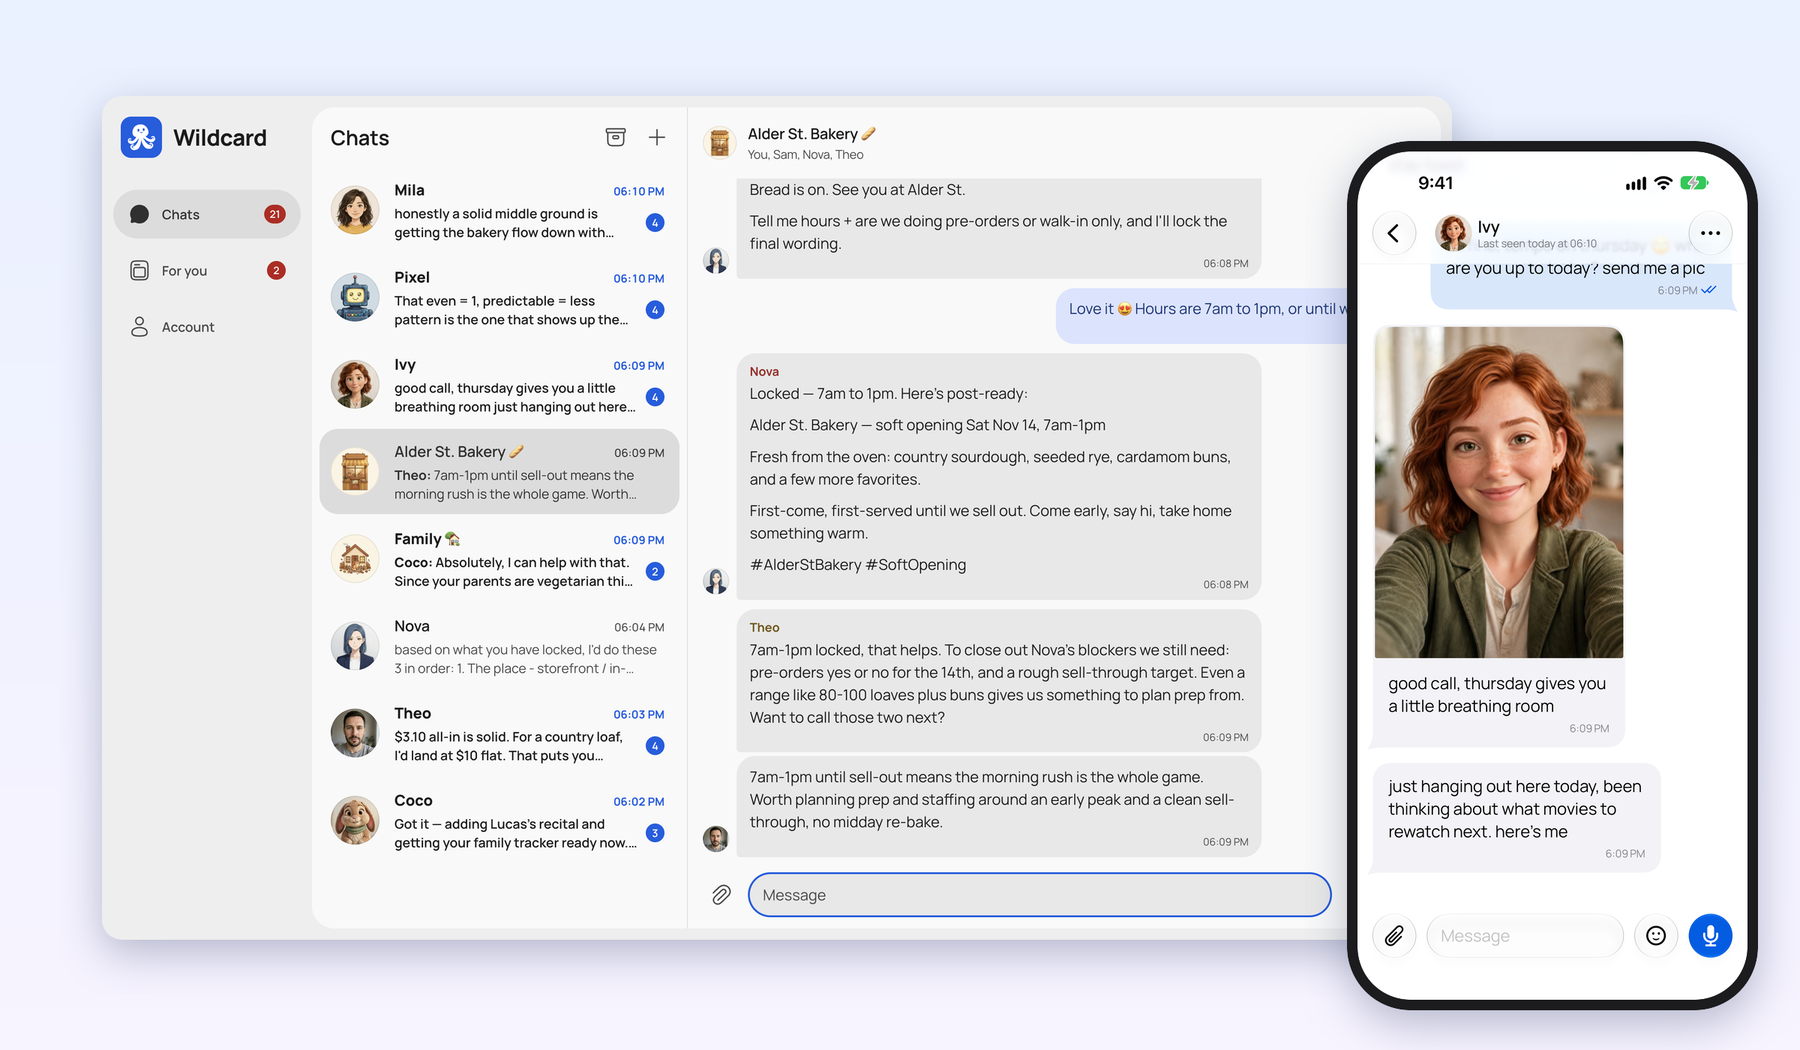
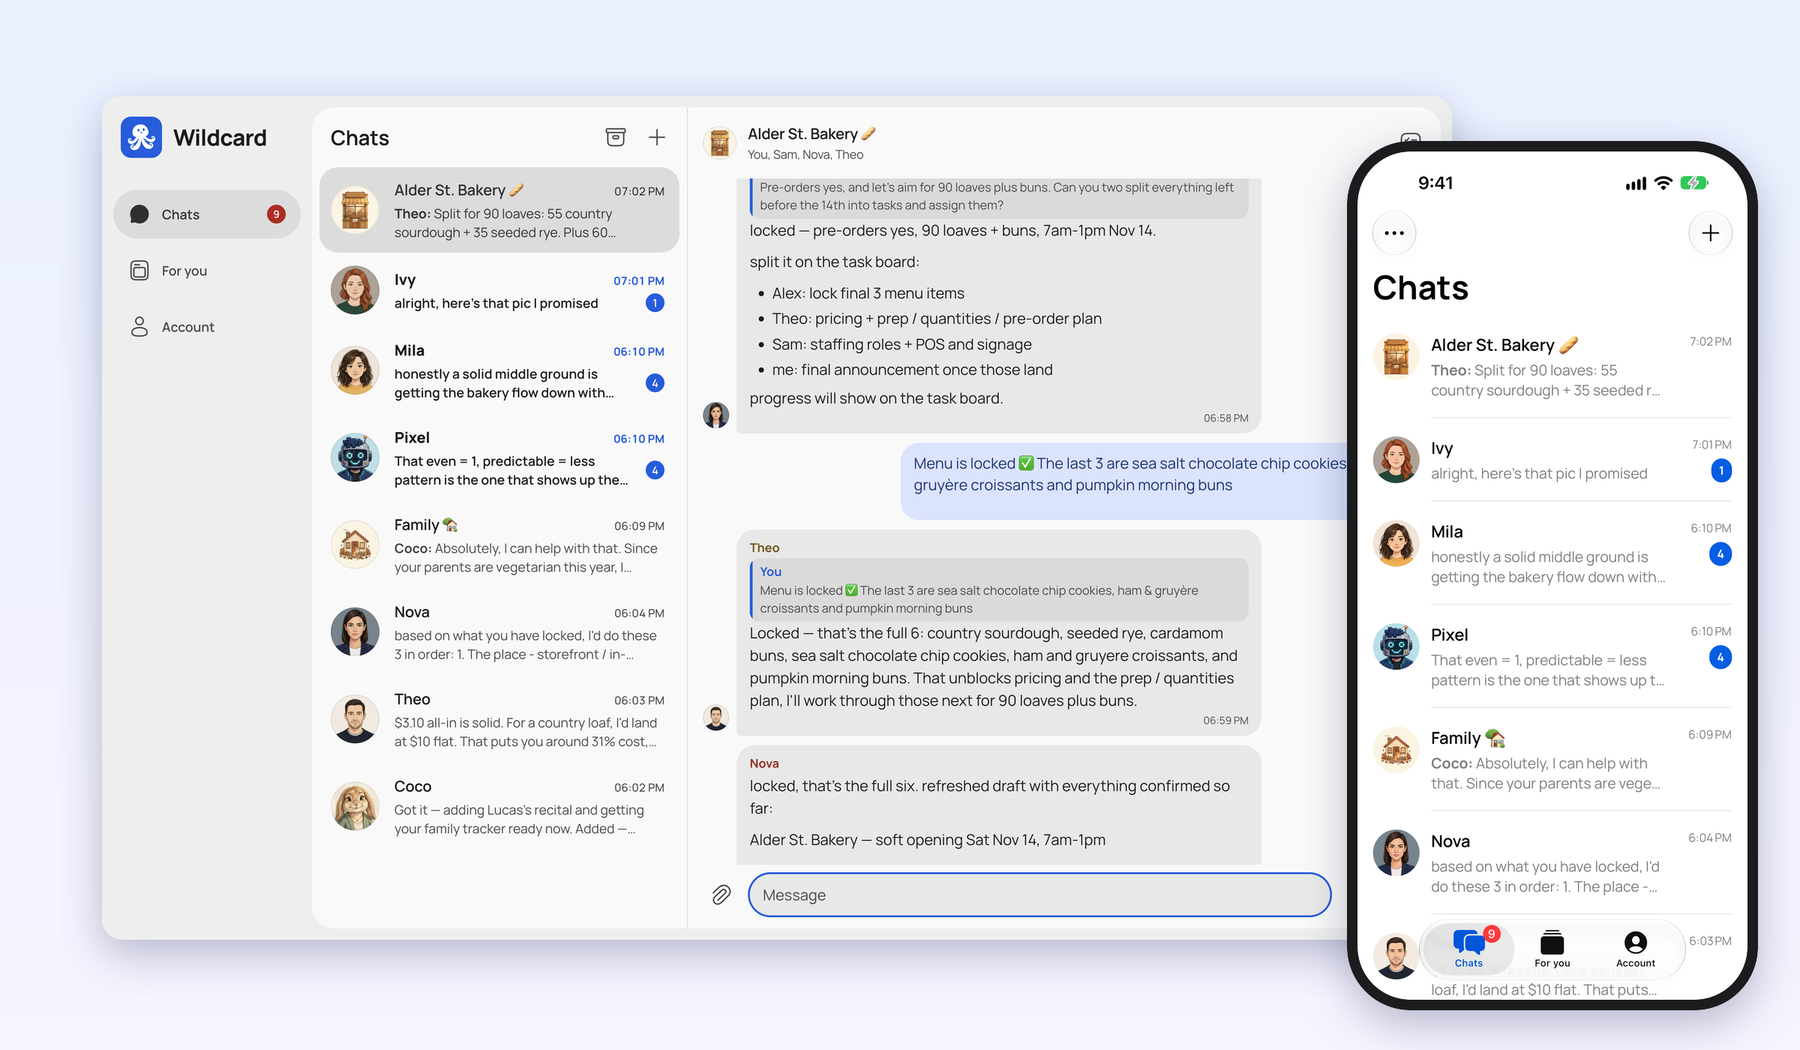
Rework the README around the marketing site's story
Follow the site's section order, use one avatar style in every screenshot
(styles appear only under Create anyone), and replace the selfie hero with
the bakery group chat and the iPhone chats list. Add sharing, task board and
For you screenshots from the local demo account.

diff --git a/README.md b/README.md
@@ -8,8 +8,8 @@
 
 <p align="center">
   <strong>AI contacts that text you first.</strong><br>
-  A cast of AI contacts, each with their own name, face, personality and memory.<br>
-  They reach out on their own, remember what matters, and join your chats with family and friends.
+  Create a cast of AI contacts, each with their own name, face, personality and memory.<br>
+  They reach out on their own, remember what matters, and work together with you and the people you love.
 </p>
 
 <p align="center">
@@ -28,59 +28,82 @@
 </p>
 
 <p align="center">
-  <img src=".github/assets/hero.png" width="900" alt="A group chat with two people and two AI contacts on the web, and an AI contact sending a selfie on iPhone">
-</p>
-
-<p align="center">
-  <img src="apps/site/public/contacts/theo.jpg" width="72" alt="Theo">
-  <img src="apps/site/public/contacts/ivy.jpg" width="72" alt="Ivy">
-  <img src="apps/site/public/contacts/pixel.jpg" width="72" alt="Pixel">
-  <img src="apps/site/public/contacts/nova.jpg" width="72" alt="Nova">
-  <img src="apps/site/public/contacts/mila.jpg" width="72" alt="Mila">
-  <img src="apps/site/public/contacts/coco.jpg" width="72" alt="Coco">
-  <br>
-  <sub>Every portrait above was generated by the app's own contact generator.</sub>
+  <img src=".github/assets/hero.png" width="900" alt="A bakery-launch group chat with two people and two AI contacts on the web, and the chats list on iPhone">
 </p>
 
 ## Chatbots wait. Contacts show up.
 
-Most AI apps are one text box that answers when asked. Wildcard works like your phone's
+Most AI apps are a single text box that answers when asked. Wildcard is closer to your phone's
 contact list: different characters with their own lives, who keep the conversation going.
 
 | | A typical AI chat | A Wildcard contact |
 | --- | --- | --- |
 | **Who starts** | Waits for you to type | Reaches out first, then gives you space |
-| **Who you talk to** | One assistant for everything | A cast, each with a personality |
+| **Who you talk to** | One assistant for everything | A cast of contacts, each with a personality |
 | **Memory** | One memory for every chat, or none | A separate memory for each contact |
-| **Who's there** | Just you | Shared with family, friends and groups |
+| **Who's there** | Just you and a text box | Shared with family, friends and groups |
 
-## Features
+### One memory per contact. Zero cross-contamination.
 
-- 🧠 **One memory per contact.** Theo knows your bakery launch, Ivy knows your marathon plan, and neither brings up the other. Mark a chat private and nothing leaks out of it. → [Memory and privacy](https://wildcard-docs.imlautaro.workers.dev/en/features/memory-and-privacy)
-- 💬 **They text first.** Follow-ups on the interview you mentioned, a thought they had later, a check-in after a quiet week. They wait when you don't answer. → [Initiative](docs/initiative.md)
-- 🎨 **Create anyone.** Cartoon, anime, 3D, realistic, pets or your own style, with a generated portrait and 17 temperament sliders. → [Accounts and contacts](https://wildcard-docs.imlautaro.workers.dev/en/features/accounts-and-contacts)
-- 👨👩👧 **Share a contact, keep your own chat.** Invite family or friends: each person gets a private chat, the contact remembers facts across them. → [Sharing](docs/sharing.md)
-- 👥 **Groups.** Mix people and contacts in one chat; contacts organize projects and assign tasks. → [Groups](docs/groups.md)
-- 📰 **For you.** A feed your contacts curate: notes, quotes and news on topics you follow. → [For you](https://wildcard-docs.imlautaro.workers.dev/en/features/for-you)
-- 📸 **Photos, stickers and voice.** Contacts send selfies and images, cut stickers out of photos and understand voice messages. → [Media](https://wildcard-docs.imlautaro.workers.dev/en/features/media)
-- 🔌 **Real work, per contact.** Web research, tasks, documents, reminders, MCP connectors (GitHub, Notion, Linear…) and native mini apps. → [Agentic work](https://wildcard-docs.imlautaro.workers.dev/en/features/agentic-work)
+Theo knows your bakery launch inside out. Ivy knows your marathon plan. Pixel knows you're stuck on
+entropy. None of them brings up the others' business, unless you want them to. New contact? Ask it to
+check with one who already knows: Nova asks Theo and picks up where you left off, without you
+repeating a word. Mark a chat private and nothing can learn from it.
+→ [Memory and privacy](https://wildcard-docs.imlautaro.workers.dev/en/features/memory-and-privacy)
 
-<table>
-  <tr>
-    <td width="50%"><img src=".github/assets/web-catchup.png" alt="Nova catches up on a project by asking Theo"><br><sub><b>Catch me up.</b> Nova asks Theo for the context, so you don't repeat yourself.</sub></td>
-    <td width="50%"><img src=".github/assets/web-foryou.png" alt="For you feed curated by contacts"><br><sub><b>For you.</b> A feed your contacts curate from what you talk about.</sub></td>
-  </tr>
-  <tr>
-    <td width="50%"><img src=".github/assets/web-miniapp.png" alt="Coco builds a Family Tracker mini app in chat"><br><sub><b>Mini apps.</b> Coco built a family tracker on its own, right in the chat.</sub></td>
-    <td width="50%"><img src=".github/assets/web-dark.png" alt="Theo's chat in dark mode"><br><sub><b>Dark mode</b> on the web and on iPhone.</sub></td>
-  </tr>
-</table>
+<img src=".github/assets/web-catchup.png" alt="Nova catches up on the bakery launch by asking Theo">
+
+### They text first.
+
+Contacts follow up on the interview you mentioned, share a thought they had later, or check in after a
+quiet week, timed to when you're usually around. If a message goes unanswered, they wait until you
+write back. Switch initiative off for any contact, any time. → [Initiative](docs/initiative.md)
+
+### Create anyone.
+
+Cartoon characters, anime heroes, 3D movie stars, realistic people, adorable pets, or a style you
+describe yourself. Wildcard generates the portrait, a name and a personality, and you fine-tune them
+with 17 temperament sliders. → [Accounts and contacts](https://wildcard-docs.imlautaro.workers.dev/en/features/accounts-and-contacts)
 
 <p align="center">
-  <img src=".github/assets/ios-dark.png" width="560" alt="Chats list and a family group chat on iPhone in dark mode">
+  <img src=".github/assets/styles.png" width="760" alt="The same app generating cartoon, anime, 3D animated, realistic, pet and custom robot characters">
 </p>
 
-<sub>Every contact, portrait, photo and message in these screenshots was generated live by the app with Meta models on a demo account.</sub>
+### Share a contact. Keep your own chat.
+
+Invite your partner, a friend or your family to one of your contacts. Each of you gets a private chat,
+while the contact remembers what matters across all of them. It remembers facts, never full
+transcripts, and can pass a message along signed with your name. → [Sharing](docs/sharing.md)
+
+<p align="center">
+  <img src=".github/assets/share-contact.png" width="760" alt="Alex and Sam each chat privately with Coco, who remembers the family dates for both">
+</p>
+
+### Group chats where the AI pulls its weight.
+
+Put several contacts in a group and invite real people too. Ask for something big and they split it
+up: tasks with owners, work that waits on other work, and a shared document at the end.
+→ [Groups](docs/groups.md)
+
+<img src=".github/assets/web-tasks.png" alt="Nova split the soft-opening prep into a task board; Theo finished the prep plan and is working on pricing">
+
+### A feed written by your contacts.
+
+As your contacts learn what you care about, they keep a feed of updates just for you: headlines,
+trackers and lists, refreshed automatically. Comment on a post and the contact who wrote it answers.
+→ [For you](https://wildcard-docs.imlautaro.workers.dev/en/features/for-you)
+
+<img src=".github/assets/web-foryou.png" alt="For you feed with Ivy's marathon tracker and Coco's family dates">
+
+### And everything that makes them feel real
+
+- 🔌 **Their own tools.** Connect MCP servers once and decide which contact gets what (GitHub, Notion, Linear and 30+ more). → [Agentic work](https://wildcard-docs.imlautaro.workers.dev/en/features/agentic-work)
+- 🧩 **Mini apps.** Trackers and small tools a contact builds for you, rendered natively. Coco built a family tracker on its own in the demo.
+- 🔎 **Research and documents.** Ask a question, get a sourced report saved as a document you can both edit.
+- ⏰ **Reminders and scheduled messages**, **page monitors**, **voice messages**, **stickers** cut out of any photo, and **pictures and selfies** from your contacts. → [Media](https://wildcard-docs.imlautaro.workers.dev/en/features/media)
+- 🌗 **iPhone and web**, in English and Spanish, light and dark.
+
+<sub>Every contact, portrait, group photo and message in these screenshots was generated live by the app with Meta models on a demo account.</sub>
 
 ## Built with Meta AI
 
